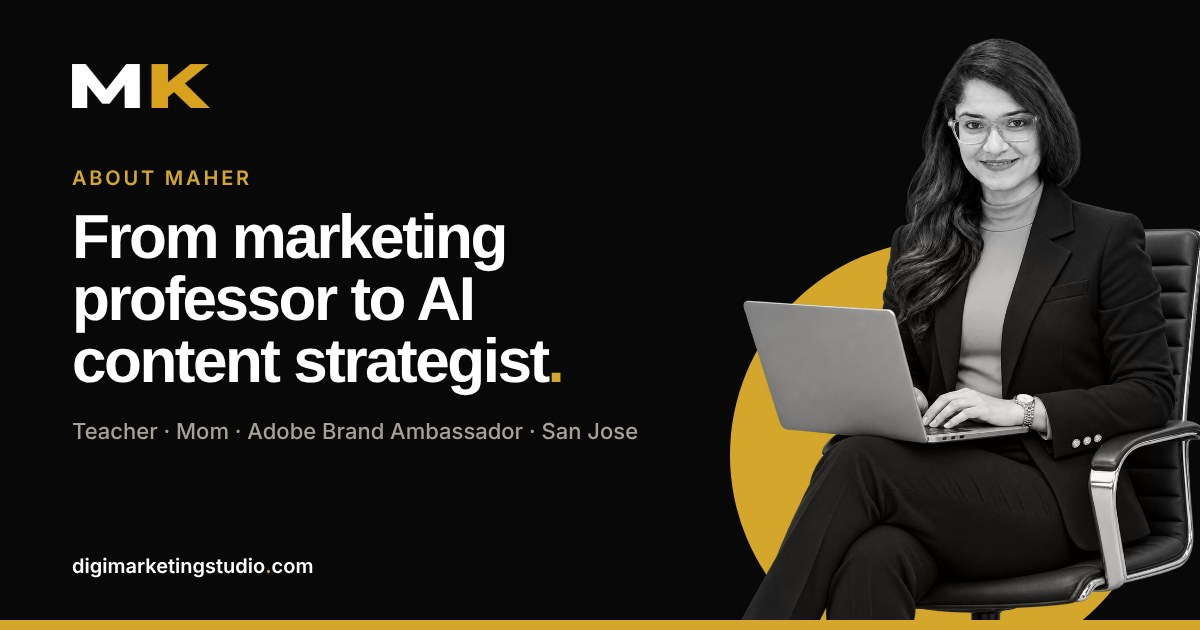
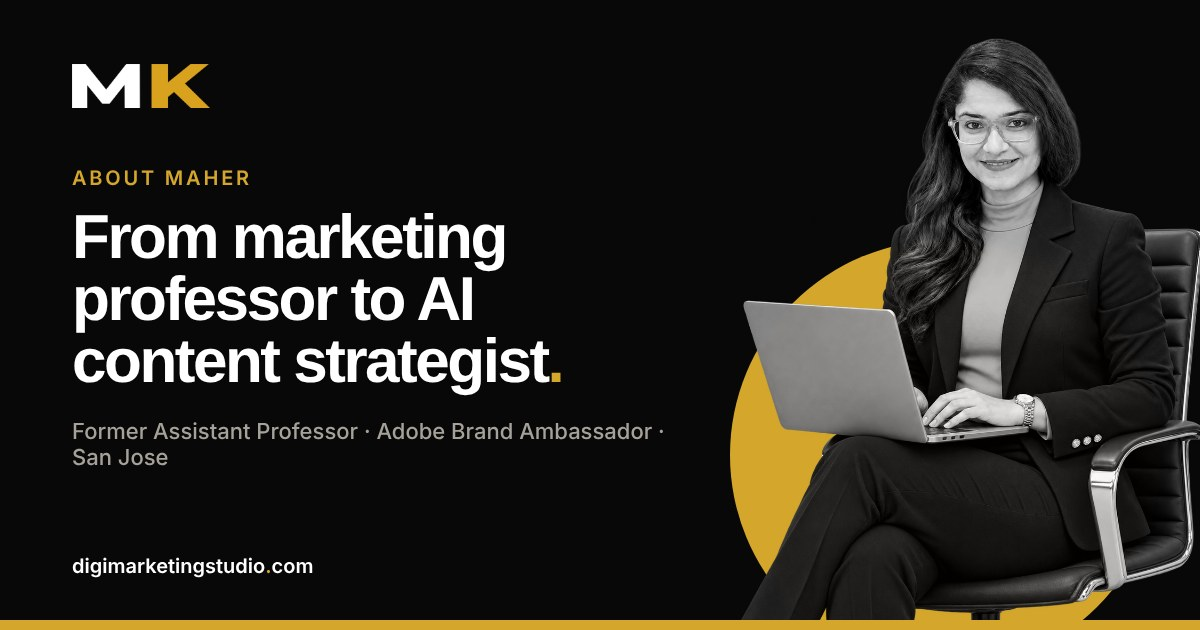
Home: replace teacher wording with Assistant Professor story hook
Claude-Session: https://claude.ai/code/session_01QtgASZE1YgvrGPEkCtPivk

Changed region(s): [[0.0617, 0.6635, 0.555, 0.754]]

diff --git a/index.html b/index.html
@@ -156,7 +156,7 @@ footer.site{border-top:1px solid var(--line)}
       </div>
     </div>
 
-    <nav class="grid" id="paths" aria-label="Choose your path"><a class="card" href="/hire/" data-i="0" data-pose="s-laptop" data-say="Hiring? My portfolio and case studies are ready for you." data-cta="See my portfolio"><span class="for">For recruiters</span><b>I'm hiring</b><span class="d">See my portfolio, case studies and work history.</span><i aria-hidden="true">&rarr;</i></a><a class="card" href="/services/" data-i="1" data-pose="s-phone" data-say="Need more customers? Let's grow your social media together." data-cta="See my services"><span class="for">For business owners</span><b>I need marketing help</b><span class="d">Social media, content, Meta ads and AI for small businesses.</span><i aria-hidden="true">&rarr;</i></a><a class="card" href="/about/" data-i="2" data-pose="s-journal" data-say="Want my story? Teacher, mom and strategist. Come say hi." data-cta="Read my story"><span class="for">For the curious</span><b>Tell me about you</b><span class="d">The teacher, the mom and the strategist behind the work.</span><i aria-hidden="true">&rarr;</i></a><a class="card" href="https://calendly.com/digitalpoles/let-s-meet-up" data-i="3" data-pose="s-bag" data-say="Ready when you are. Grab a free 30-minute call with me." data-cta="Book a call" target="_blank" rel="noopener"><span class="for">For everyone</span><b>Let's talk</b><span class="d">Book a free 30-minute call on Calendly.</span><i aria-hidden="true">&rarr;</i></a></nav>
+    <nav class="grid" id="paths" aria-label="Choose your path"><a class="card" href="/hire/" data-i="0" data-pose="s-laptop" data-say="Hiring? My portfolio and case studies are ready for you." data-cta="See my portfolio"><span class="for">For recruiters</span><b>I'm hiring</b><span class="d">See my portfolio, case studies and work history.</span><i aria-hidden="true">&rarr;</i></a><a class="card" href="/services/" data-i="1" data-pose="s-phone" data-say="Need more customers? Let's grow your social media together." data-cta="See my services"><span class="for">For business owners</span><b>I need marketing help</b><span class="d">Social media, content, Meta ads and AI for small businesses.</span><i aria-hidden="true">&rarr;</i></a><a class="card" href="/about/" data-i="2" data-pose="s-journal" data-say="I left a professor's office to build content for real brands. Curious why?" data-cta="Read my story"><span class="for">For the curious</span><b>Tell me about you</b><span class="d">From Assistant Professor of Marketing to AI content strategist.</span><i aria-hidden="true">&rarr;</i></a><a class="card" href="https://calendly.com/digitalpoles/let-s-meet-up" data-i="3" data-pose="s-bag" data-say="Ready when you are. Grab a free 30-minute call with me." data-cta="Book a call" target="_blank" rel="noopener"><span class="for">For everyone</span><b>Let's talk</b><span class="d">Book a free 30-minute call on Calendly.</span><i aria-hidden="true">&rarr;</i></a></nav>
     <p class="idl">Maher Khan is an AI Content Strategist, social media strategist and digital marketer based in San Jose, California, and an Adobe Brand Ambassador for Adobe Express and Adobe Firefly.</p>
     <p class="hint"><span class="dk">Hover a card and watch me walk over. Or click to go straight there.</span><span class="mb">Watch me show you around, or tap a card to go there.</span></p>
   </div>
